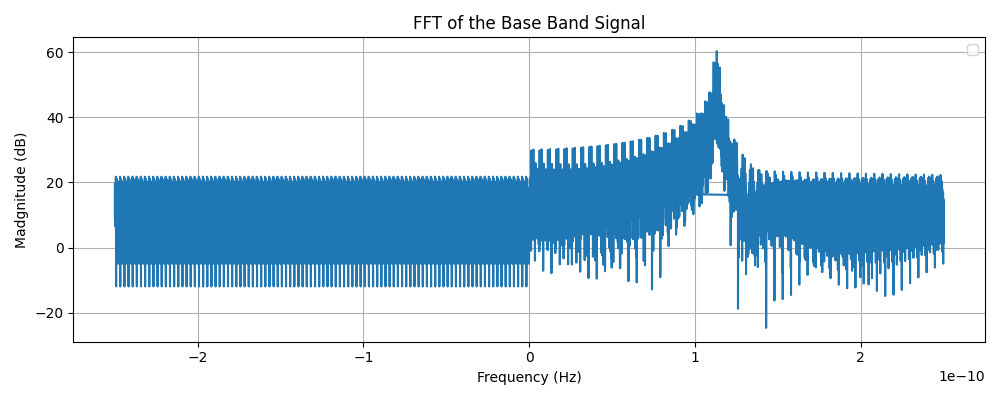
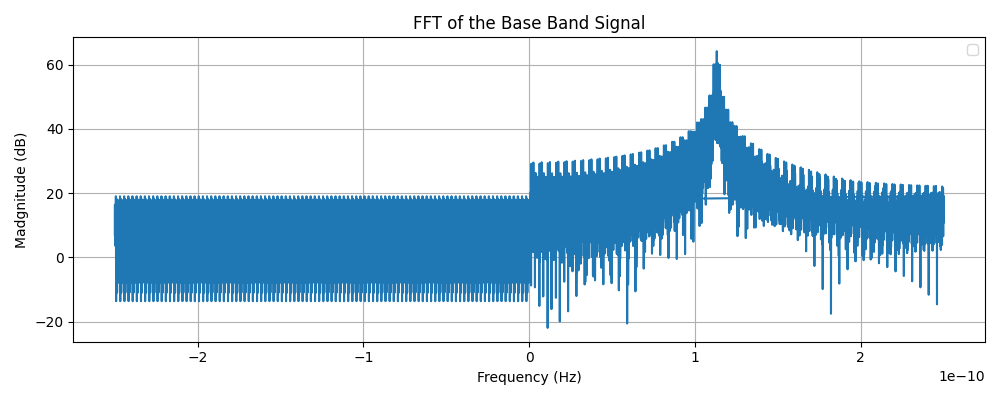
took away label

diff --git a/Phys_Sim/main.py b/Phys_Sim/main.py
@@ -121,8 +121,7 @@ def simulate_page():
                     sig_gen.handler(message.value, int(freq_in_slider.value)*1e6) 
                     #iff there is noise add it to the outgoing sig_gen waveform
                     if noise_bool:
-                        pass#workin on noise addr still
-                        #sig_gen.qpsk_waveform = Noise_Addr(sig_gen.qpsk_waveform, noise_power)
+                        sig_gen.qpsk_waveform = Noise_Addr(sig_gen.qpsk_waveform, noise_power)
 
                     #Repeater 
                     repeater.desired_frequency = int(freq_out_slider.value) * 1e6
@@ -134,11 +133,10 @@ def simulate_page():
 
                     #add noise if applicable
                     if noise_bool: 
-                        pass #working on noise_adder
                         repeater.qpsk_filtered = Noise_Addr(repeater.qpsk_filtered, noise_power)
 
                     #TODO put receiver class here
-                    decoded_bits, decoded_string = receiver.handler(repeater.qpsk_filtered, sig_gen.sample_rate, sig_gen.symbol_rate, repeater.desired_frequency, sig_gen.time_vector)
+                    decoded_bits, decoded_string = receiver.handler(repeater.qpsk_mixed, sig_gen.sample_rate, sig_gen.symbol_rate, repeater.desired_frequency, sig_gen.time_vector)
 
                     #noise_level = noise_slider.value
                     #debug:
@@ -206,7 +204,7 @@ def repeater_page():
     ui.button('back', on_click=ui.navigate.back)
     if message_input is not None:
         with ui.column().style('width: 100%; justify-content: center; align-items: center;'):
-            ui.label(f'Input Frequency: {sig_gen.freq/1e6:.1f} MHz      Output Frequency: {repeater.desired_freqeuncy/1e6:.1f} MHz').style('font-size: 2em; font-weight: bold;')
+            ui.label(f'Input Frequency: {sig_gen.freq/1e6:.1f} MHz      Output Frequency: {repeater.desired_frequency/1e6:.1f} MHz').style('font-size: 2em; font-weight: bold;')
 
     ui.image('original_qpsk_rp.png').force_reload()
     ui.image('shifted_qpsk_rp.png').force_reload()
@@ -230,6 +228,9 @@ def receiver_page():
         else:
             payload += str(decoded_bits[i])
     with ui.column().style('width: 100%; justify-content: center; align-items: center;'):
+        ui.image('demod_media/Constellation.png').force_reload()
+        ui.image('demod_media/Base_Band_Waveform.png').force_reload()
+        ui.image('demod_media/Base_Band_FFT.png').force_reload()
         ui.label('Bit Sequence:').style('font-size: 1.5em; font-weight: bold;')
         ui.html(f'''<div style ="font-size: 1.5em; font-weight: bold; color: #D2042D;"><span style = 'color:#0072BD'>Marker</span> | <span style = 'color:black'>Message</span></div>''').style('text-align: center;')
         ui.html(f'''<div style ="font-size: 1.5em; font-weight: bold; color: #D2042D; text-wrap:wrap; word-break: break-all;"><span style = 'color:#0072BD'>{marker}</span> | <span style = 'color:black; '>{payload}</span></div>''').style('text-align: center;')

diff --git a/Phys_Sim/Receiver.py b/Phys_Sim/Receiver.py
@@ -130,7 +130,6 @@ class Receiver:
         plt.xlabel('Frequency (Hz)')
         plt.ylabel('Madgnitude (dB)')
         plt.grid()
-        plt.legend()
         plt.tight_layout()
         plt.savefig('demod_media/Base_Band_FFT.png')
 
